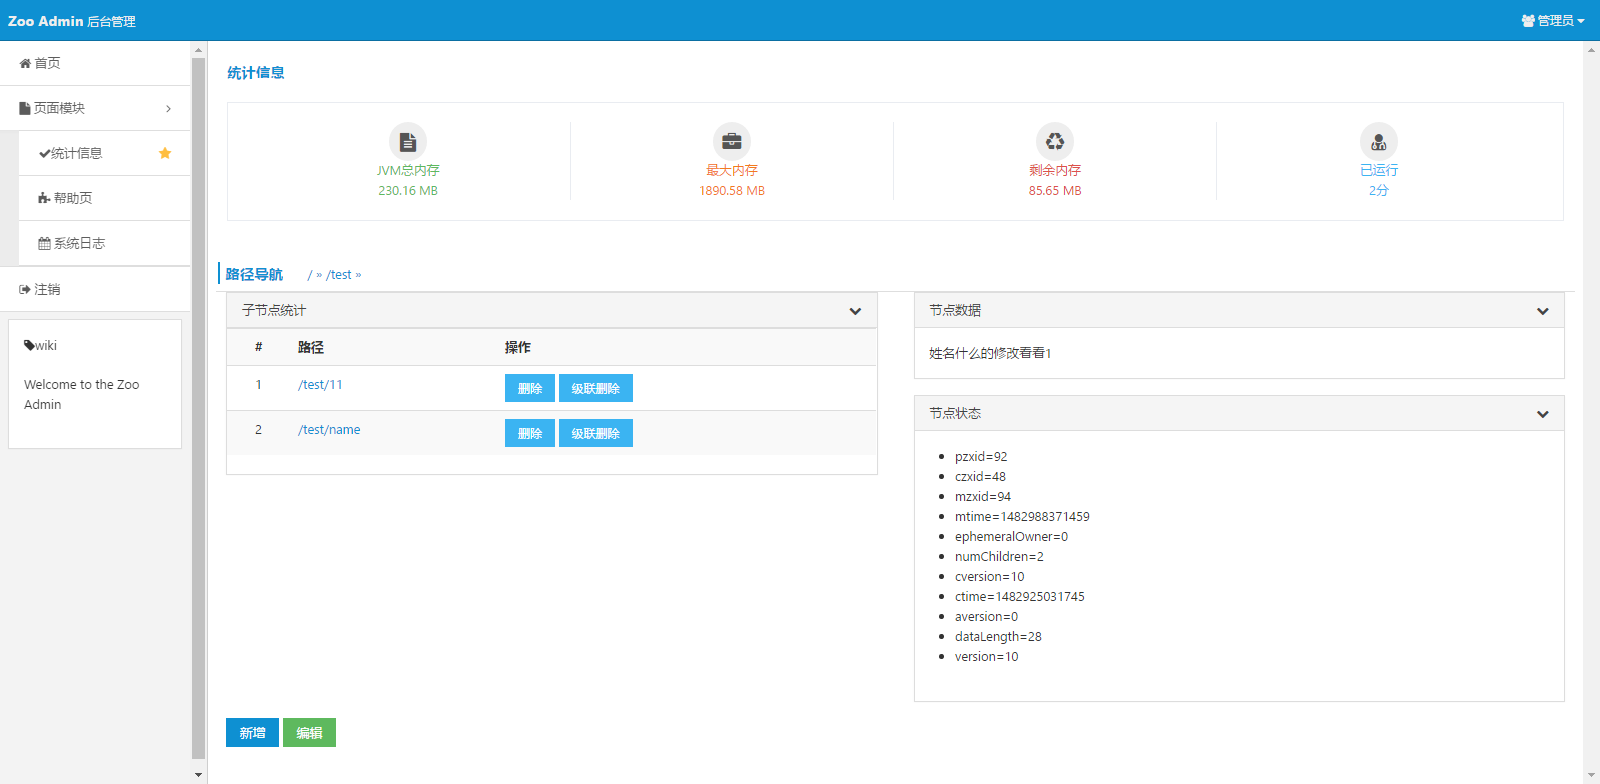
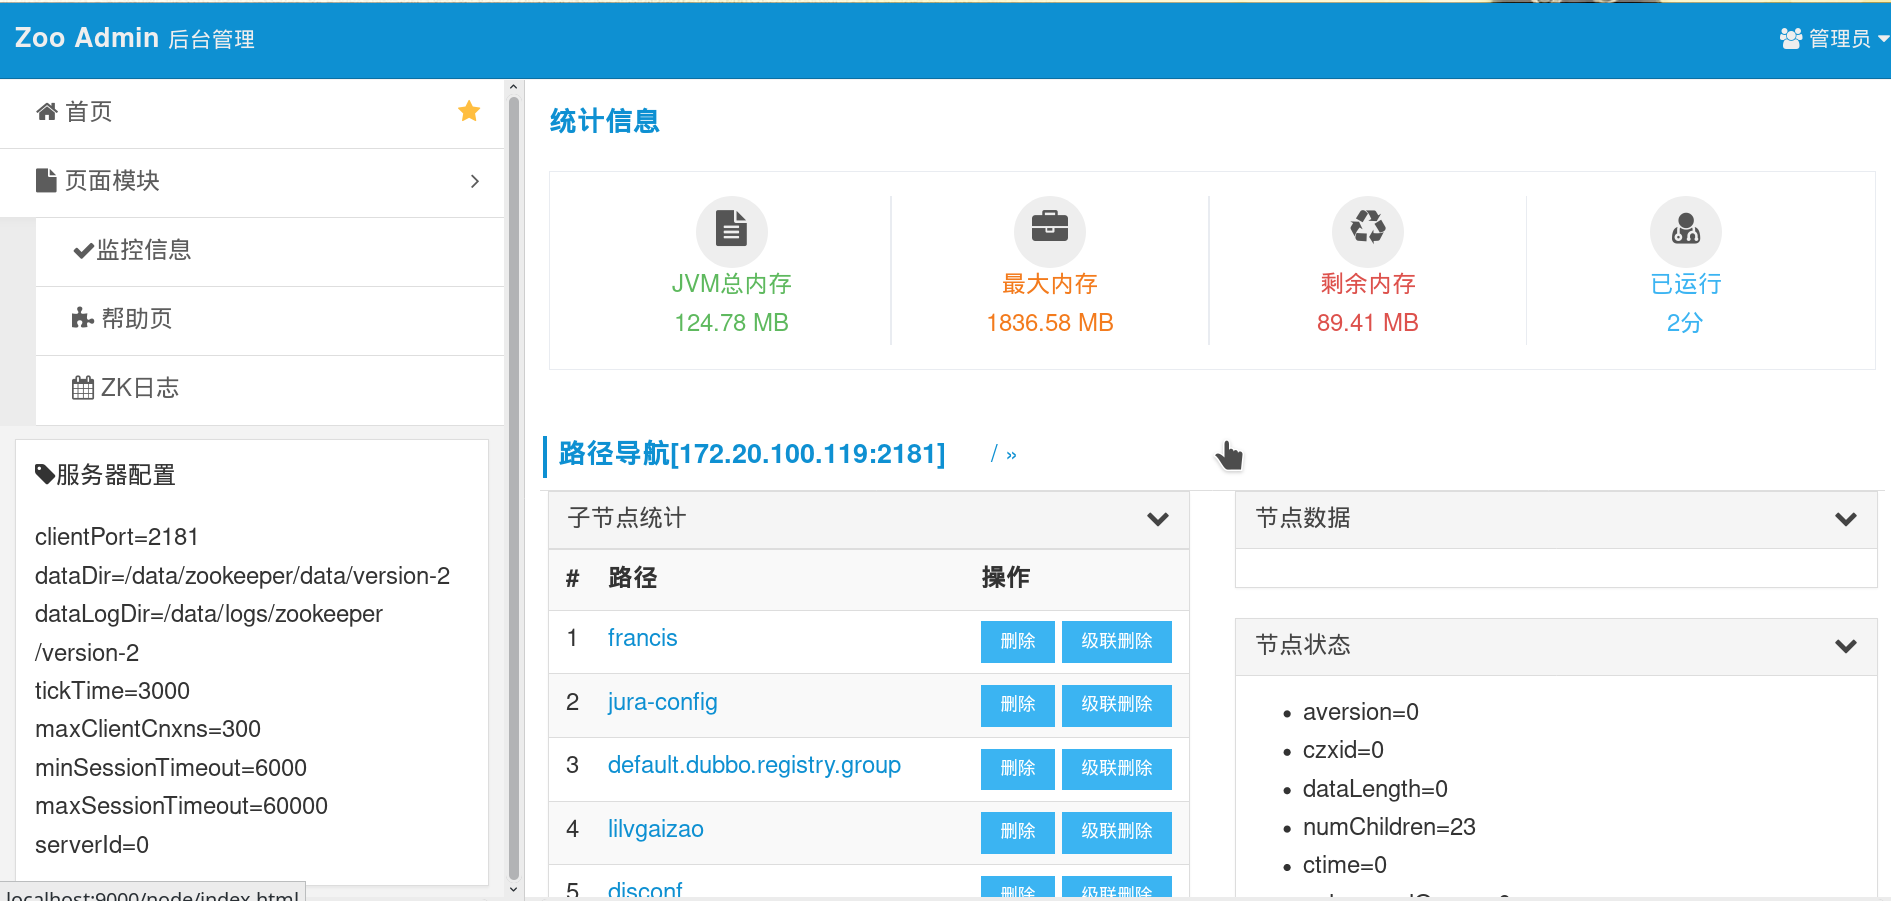
配图更新

diff --git a/README.md b/README.md
@@ -25,7 +25,7 @@ Quick Start
 
 项目启动后，访问 [http://localhost:9000][1]，显示如下
 ![主页][2]
-![日志查看][3]
+![会话查看][3]
 默认用户名和密码均是root,密码可到user.properties文件中配置,默认启动端口也可到里面配置
 ------
 
@@ -38,4 +38,4 @@ waitfox@qq.com
 
   [1]: http://localhost:9000
   [2]: ./doc/img/index.png
-  [3]: ./doc/img/zoo-log.png
+  [3]: ./doc/img/session.png
